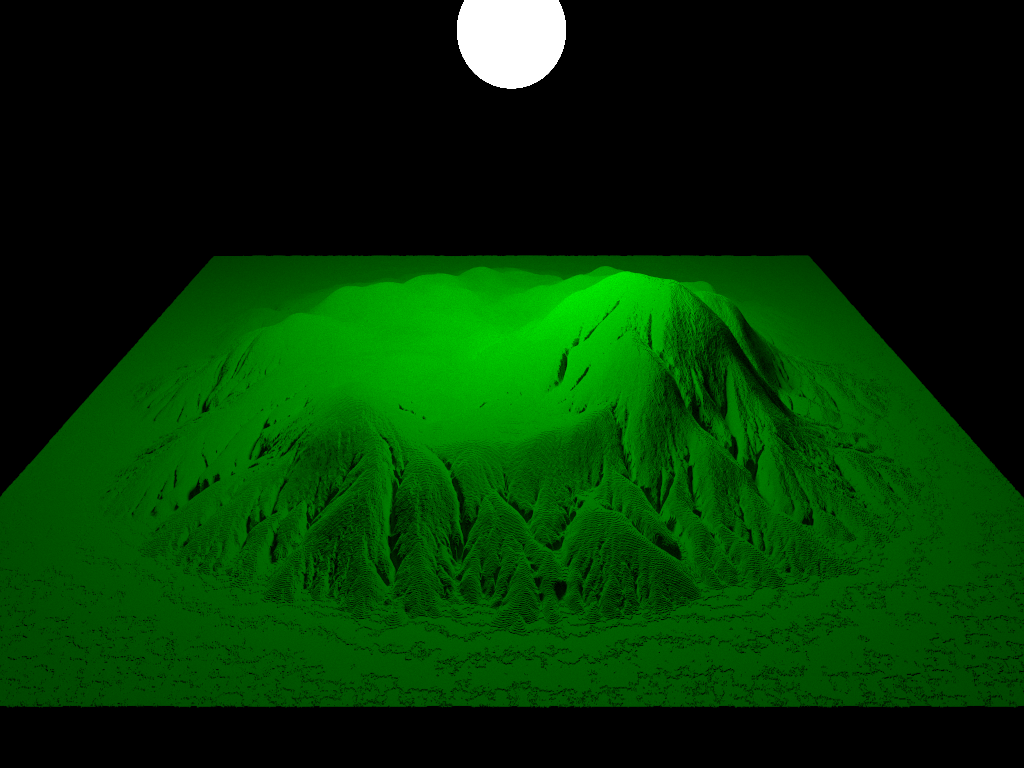
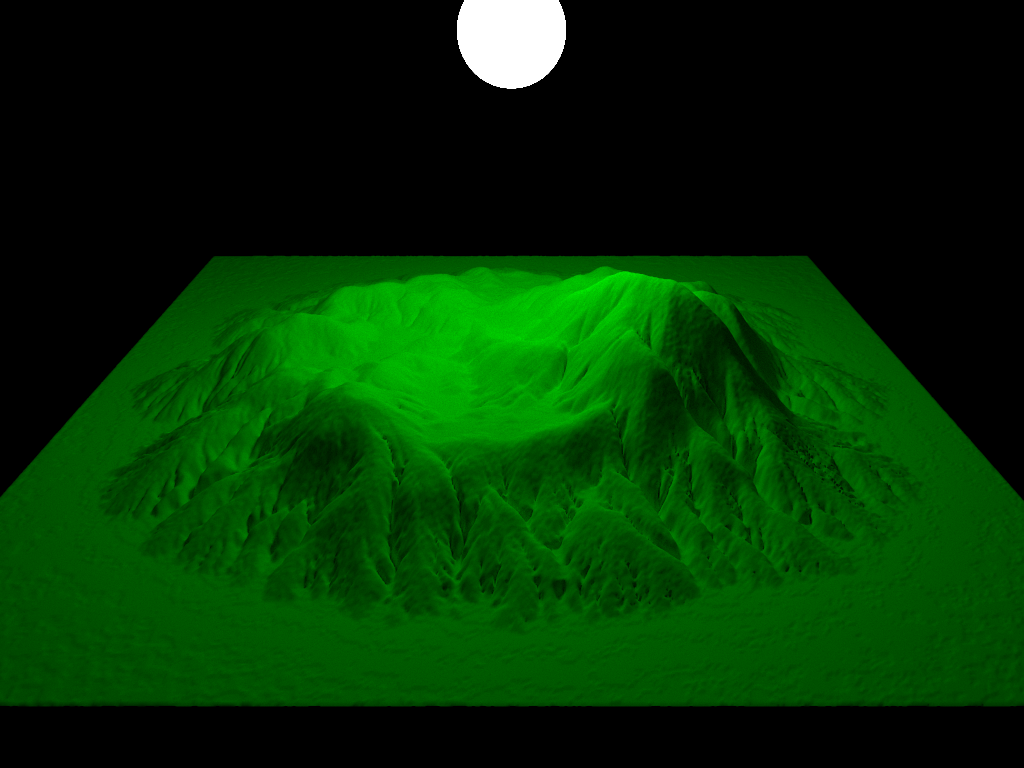
simple displacement recompute normals

diff --git a/hydra_api/HydraAPI_Geom.cpp b/hydra_api/HydraAPI_Geom.cpp
@@ -964,14 +964,14 @@ HAPI void hrMeshComputeNormals(HRMeshRef a_mesh, const int indexNum, bool useFac
 		return;
 	}
 
-	const HRMesh::InputTriMesh& mesh = pMesh->m_input;
+	HRMesh::InputTriMesh& mesh = pMesh->m_input;
 
 	int faceNum = indexNum / 3;
 
 	//std::vector<float3> faceNormals;
 	//faceNormals.reserve(faceNum);
 
-	std::vector<float3> vertexNormals(mesh.triIndices.size(), float3(0.0, 0.0, 0.0));
+	std::vector<float3> vertexNormals(mesh.verticesPos.size() / 4, float3(0.0, 0.0, 0.0));
 
 
 	for (auto i = 0; i < faceNum; ++i)
@@ -1039,14 +1039,18 @@ HAPI void hrMeshComputeNormals(HRMeshRef a_mesh, const int indexNum, bool useFac
 		//faceNormals.push_back(face_normal);
 	}
 
+	if(mesh.verticesNorm.size() != mesh.verticesPos.size())
+	  mesh.verticesNorm.resize(mesh.verticesPos.size());
+
 	for (int i = 0; i < vertexNormals.size(); ++i)
 	{
 		float3 N = normalize(vertexNormals.at(i));
 
-		pMesh->m_input.verticesNorm.push_back(N.x);
-		pMesh->m_input.verticesNorm.push_back(N.y);
-		pMesh->m_input.verticesNorm.push_back(N.z);
-		pMesh->m_input.verticesNorm.push_back(1.0f);
+    mesh.verticesNorm.at(4 * i + 0) = N.x;
+    mesh.verticesNorm.at(4 * i + 1) = N.y;
+    mesh.verticesNorm.at(4 * i + 2) = N.z;
+    mesh.verticesNorm.at(4 * i + 3) = 1.0f;
+
 	}
 }
 
@@ -1237,6 +1241,9 @@ void hrMeshDisplace(HRMeshRef a_mesh)
   {
     doDisplacement(pMesh, dTris.second.first, dTris.second.second);
   }
+
+
+  hrMeshComputeNormals(a_mesh, mesh.triIndices.size(), false);
 }
 
 

diff --git a/main/main.cpp b/main/main.cpp
@@ -145,7 +145,9 @@ int main(int argc, const char** argv)
     //GEO_TESTS::test_005_instancing();
     //MTL_TESTS::test_160_proc_dirt3();
 
-    //MTL_TESTS::test_161_simple_displacement();
+    //GEO_TESTS::test_003_compute_normals();
+
+    MTL_TESTS::test_161_simple_displacement();
 
     //MTL_TESTS::test_162_shadow_matte_back1();
     //MTL_TESTS::test_154_proc_checker_precomp();
@@ -171,7 +173,8 @@ int main(int argc, const char** argv)
     //window_main_free_look(L"D:/PROG/HydraCore/hydra_app/tests/test_42", L"opengl1DrawRays");
     //test_gl32_002();
     //window_main_free_look(L"tests/test_gl32_002", L"opengl32Deferred");
-    window_main_free_look(L"tests/test_42", L"opengl1Debug");
+    //window_main_free_look(L"tests/test_42", L"opengl1Debug");
+    //window_main_free_look(L"tests_f/test_161", L"opengl1Debug");
 
     //_hrDebugPrintVSGF(L"D:/temp/TestRenderFromPhil/data/chunk_00022.vsgf",   L"z_mesh_phil.txt");
     //_hrDebugPrintVSGF(L"D:/temp/TestRenderFromSergey/data/chunk_00022.vsgf", L"z_mesh_serg.txt");

diff --git a/main/tests_mtl4.cpp b/main/tests_mtl4.cpp
@@ -2071,7 +2071,7 @@ bool MTL_TESTS::test_161_simple_displacement()
   /////////////////////////////////////////////////////////////////////////////////////////////////////////////////////////////////////////////////////
   // Meshes
   /////////////////////////////////////////////////////////////////////////////////////////////////////////////////////////////////////////////////////
-  HRMeshRef tess = CreateTriStrip(2048, 2048, 100);//hrMeshCreateFromFileDL(L"data/meshes/tesselated_plane.vsgf");
+  HRMeshRef tess = CreateTriStrip(512, 512, 100);//hrMeshCreateFromFileDL(L"data/meshes/tesselated_plane.vsgf");
   /////////////////////////////////////////////////////////////////////////////////////////////////////////////////////////////////////////////////////
   // Light
   /////////////////////////////////////////////////////////////////////////////////////////////////////////////////////////////////////////////////////
